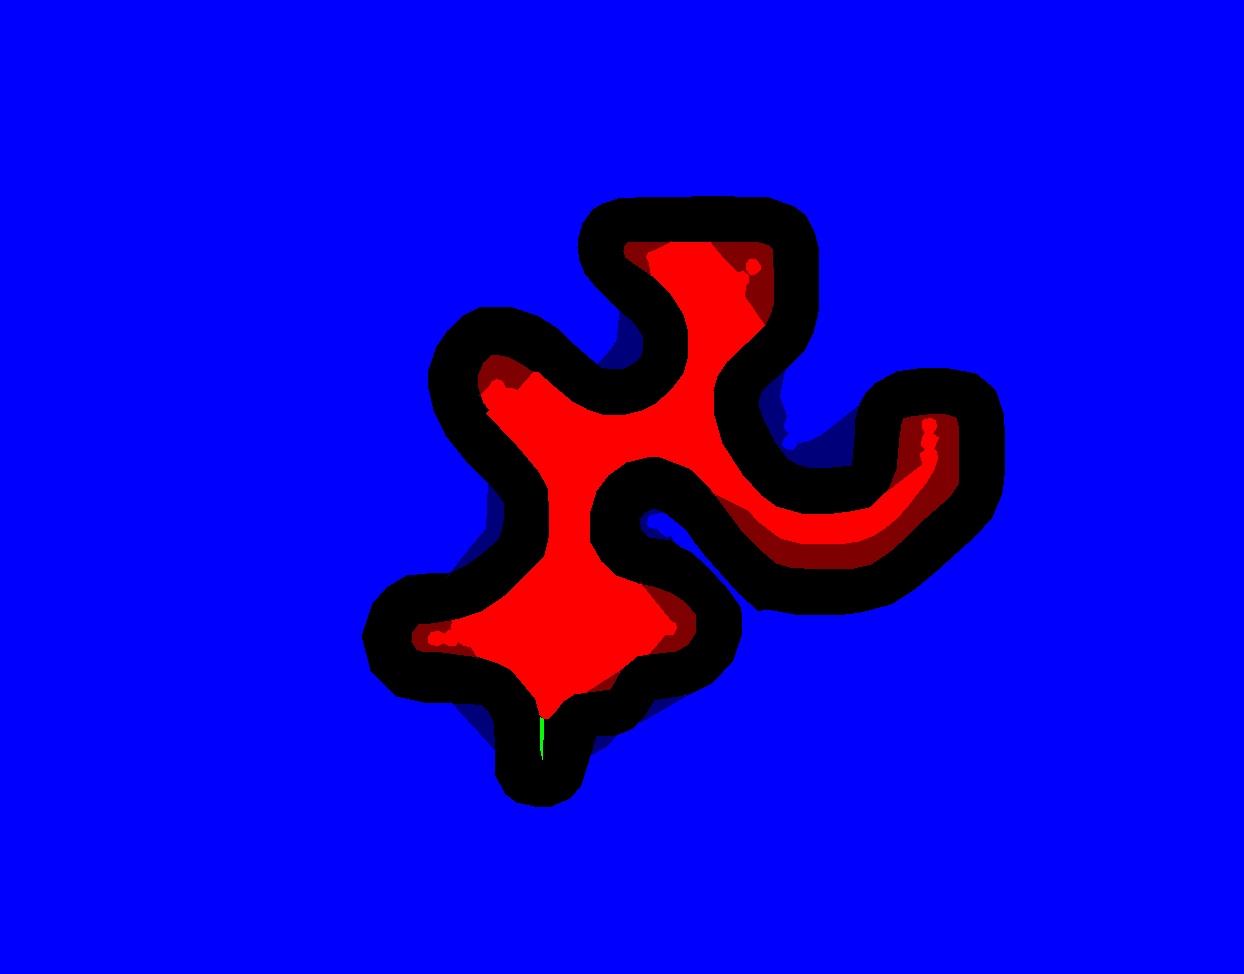
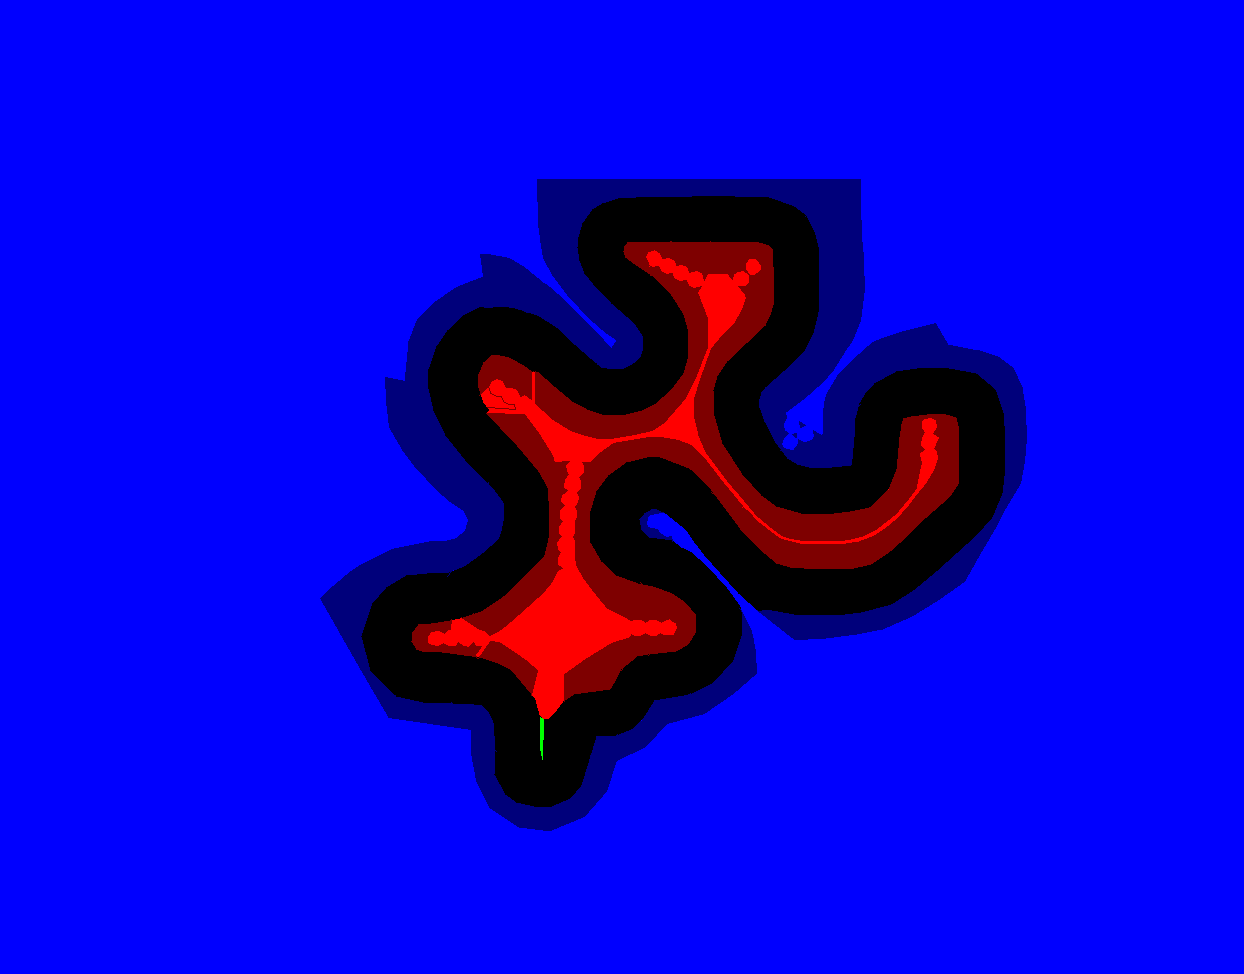
add jump at end of ramps, small changes in track pictures

Changed region(s): [[0.2444, 0.1848, 0.8248, 0.7084], [0.3666, 0.2464, 0.7331, 0.7084], [0.3055, 0.6468, 0.6109, 0.8624]]

diff --git a/cv2/ctrAI.py b/cv2/ctrAI.py
@@ -30,7 +30,7 @@ class TrackImage():
 		"mysterycaves",
 		"blizzardbluff",
 		"sewerspeedway",
-		"canyondingo",
+		"dingocanyon",
 		"papupyramid",
 		"dragonmines",
 		"polarpass",
@@ -270,18 +270,18 @@ class Console:
 
 BATCH_SIZE = 64
 GAMMA = 0.999
-EPS_START = 0.6
-EPS_END = 0.1
+EPS_START = 0.0
+EPS_END = 0.0
 EPS_DECAY = 700000
 TARGET_UPDATE = 30
 NORMALISATION_CONST = 4000000
 lr = 0.0005
 manual_training = False
-is_checkpoint = False
-testing = False
+is_checkpoint = True
+testing = True
 checkpoint = None
 if is_checkpoint:
-	checkpoint = torch.load("ctrai_cv2.model")
+	checkpoint = torch.load("models/ctrai_cv2.model")
 
 crop_size = 20
 n_actions = 3
@@ -305,14 +305,6 @@ else:
 	memory = ReplayMemory(1000000)
 
 steps_done = 0
-steps_done_1 = 0
-steps_done_2 = 0
-steps_done_3 = 0
-steps_done_4 = 0
-steps_done_5 = 0
-steps_done_6 = 0
-steps_done_7 = 0
-steps_done_8 = 0
 previous_random_action = 0
 
 def select_action(state):
@@ -326,6 +318,7 @@ def select_action(state):
 	sample = random.random()
 	if sample > eps_threshold:
 		with torch.no_grad():
+			print(policy_net(state))
 			return 0, policy_net(state).argmax(dim=1), eps_threshold
 	else:
 		if random.random() < 0.95: #increase likelihood of same random actions in a row

diff --git a/cv2/testing/pythontest.py b/cv2/testing/pythontest.py
@@ -60,7 +60,7 @@ image.resize(scale)
 
 image.rotate_and_crop(1794450, -1559565, 3118)
 
-#image.image.save("C:/Users/Justin/Documents/CTR/CTR_AI/computer-vision/test.png")
+#image.image.save("C:/Users/Justin/Documents/CTR/CTR_AI/cv2/test.png")
 
 image.save()
 
@@ -74,7 +74,7 @@ print(pil_to_tensor.shape)
 tensor_to_pil = T.ToPILImage()(pil_to_tensor.squeeze_(0))
 print(tensor_to_pil.size)
 
-tensor_to_pil.save("C:/Users/Justin/Documents/CTR/CTR_AI/computer-vision/test2.png")
+tensor_to_pil.save("C:/Users/Justin/Documents/CTR/CTR_AI/cv2/test2.png")
 
 
 
